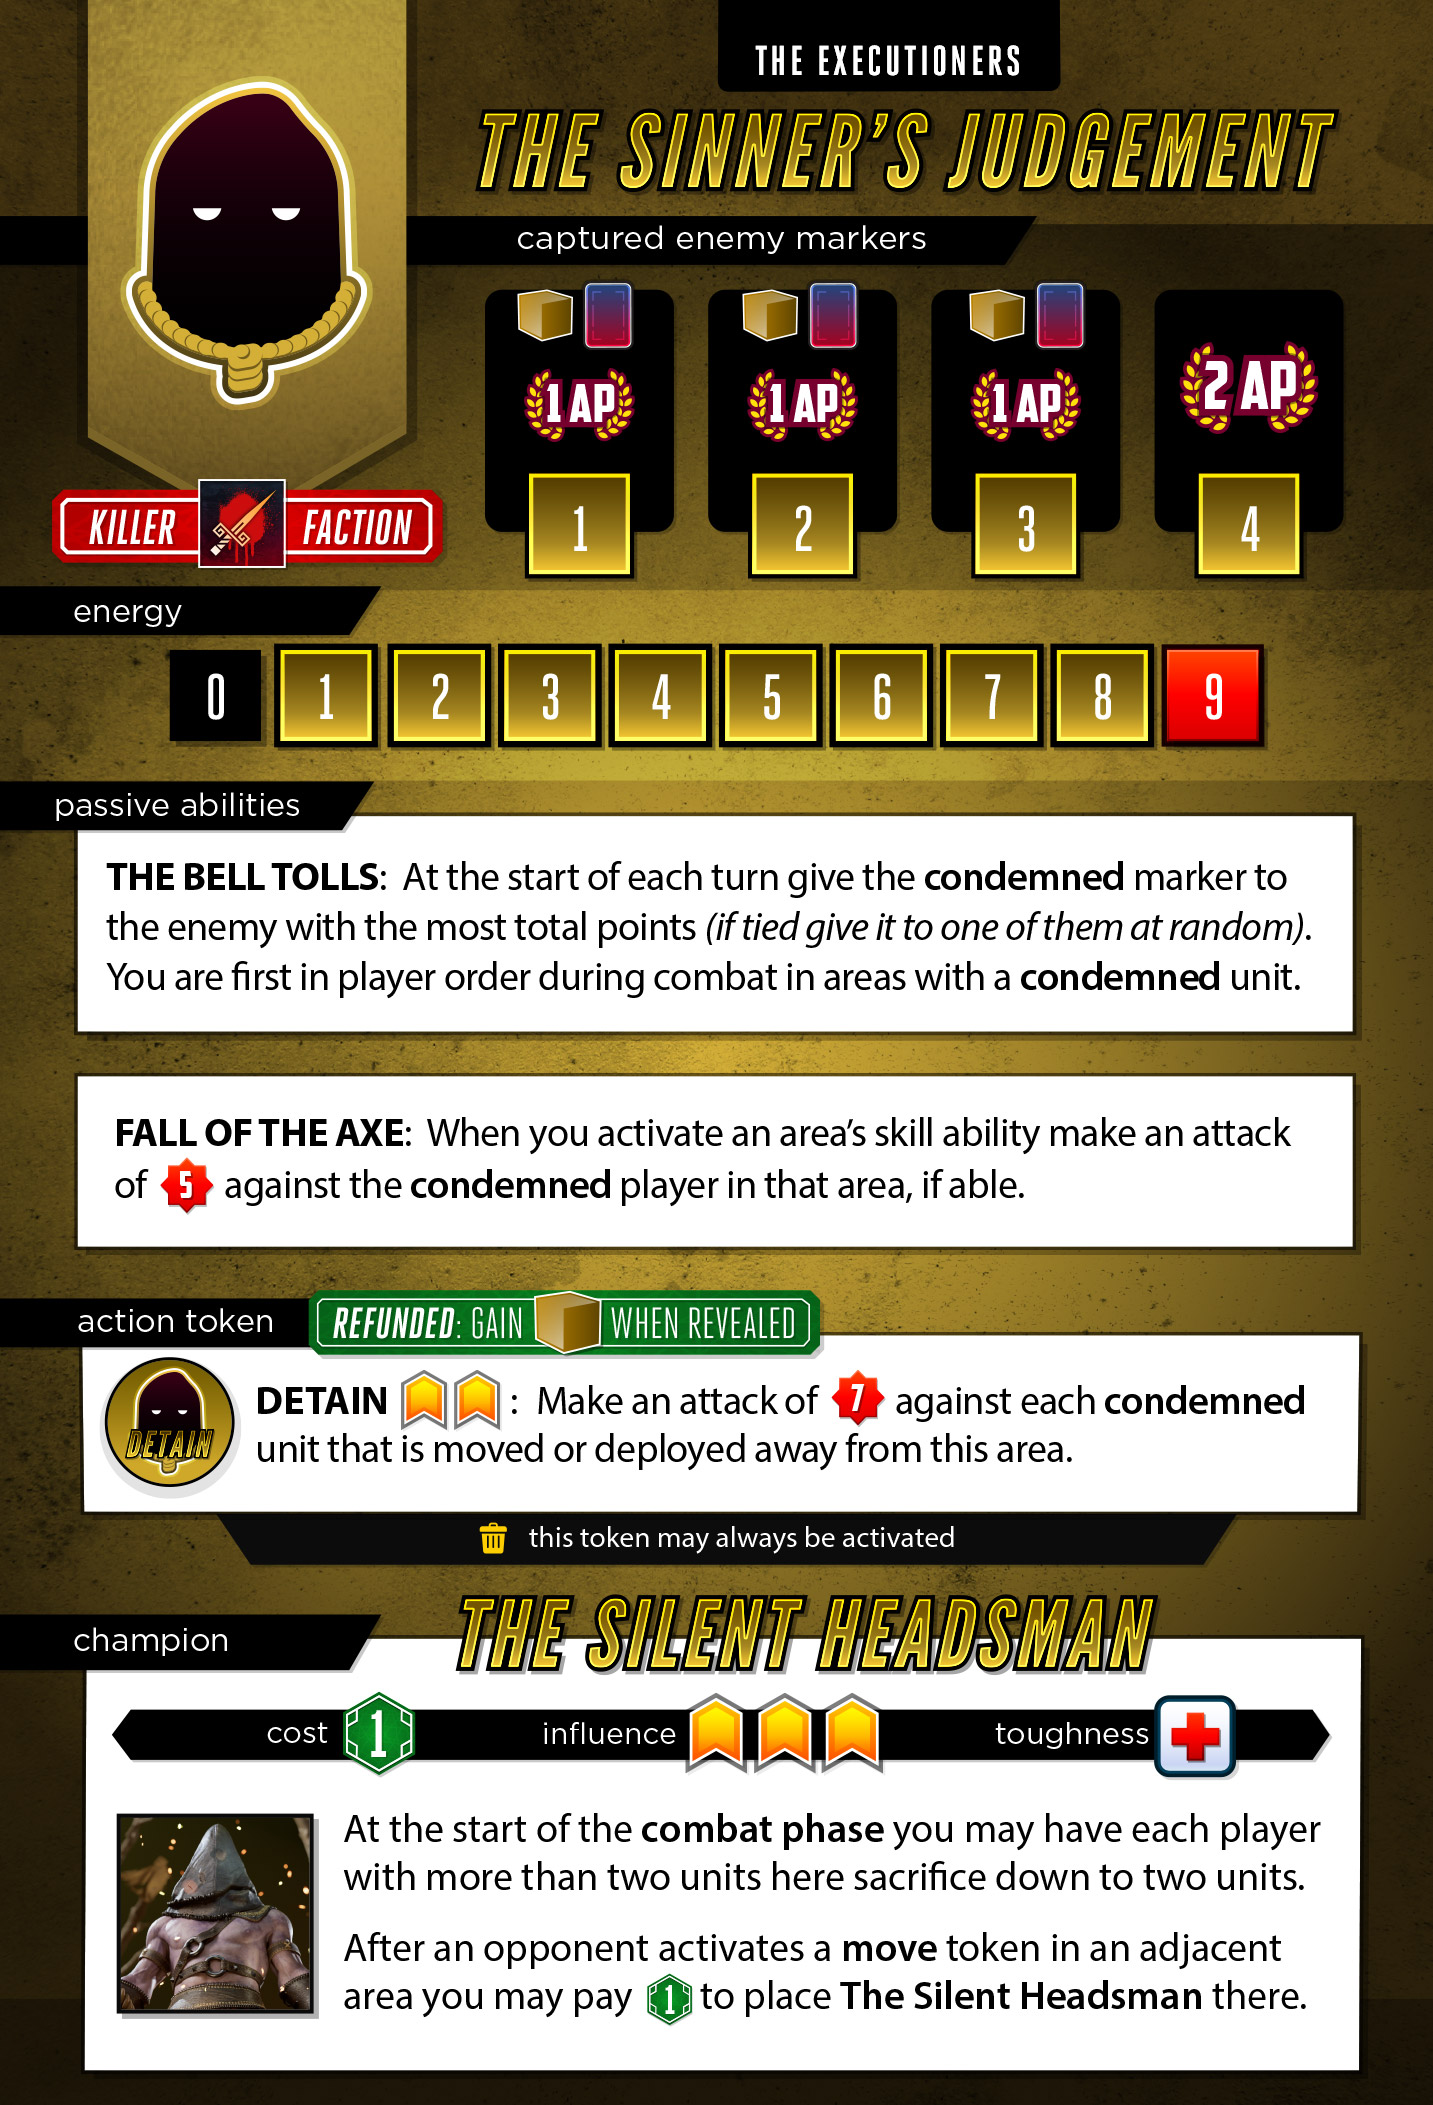
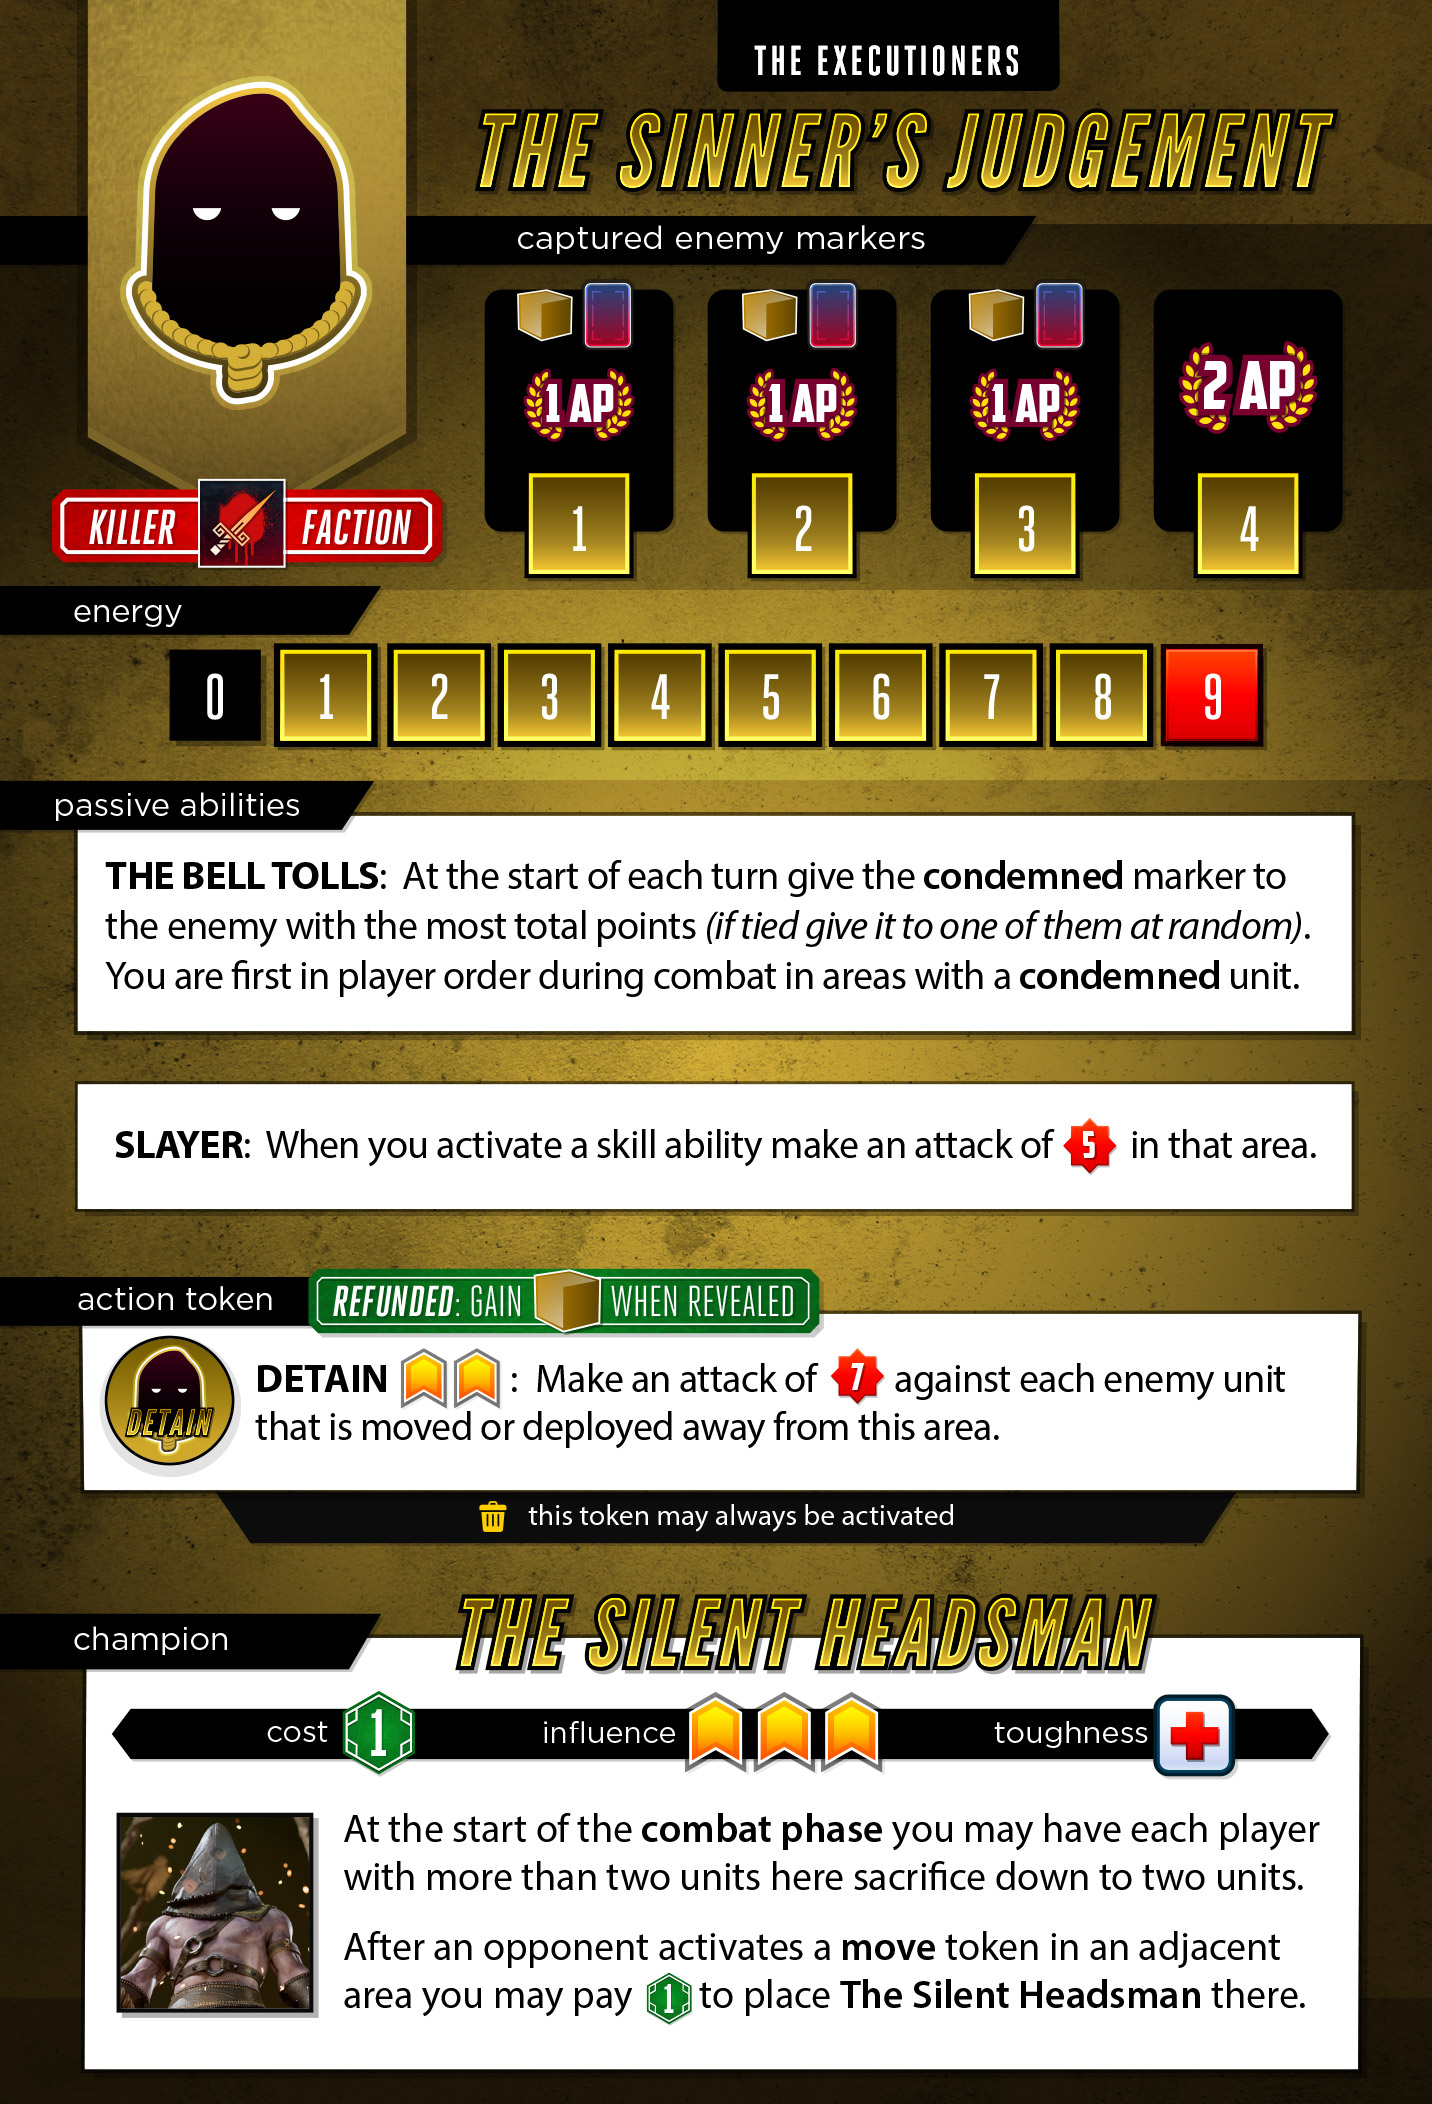
EXECUTIONERS: make abilites work against all enemies

diff --git a/server/classes/factions/Executioners.js b/server/classes/factions/Executioners.js
@@ -314,16 +314,15 @@ class Executioners extends Faction {
      * @returns {Promise<void>}
      */
     async afterSkillAttack( area ){
-        let condemned = this.game().factions[this.data.condemned];
-        let condemnedUnits = condemned.unitsInArea( area, { notHidden : 'true' } );
+        let enemyUnits = this.enemyUnitsInArea( area, { notHidden: true } );
 
-        if(!condemnedUnits.length){
-            this.message( `No condemned units in the ${area.name} to attack`, { class : 'warning' } );
+        if( !Object.keys( enemyUnits ).length ){
+            this.message( `No units in the ${area.name} to attack`, { class : 'warning' } );
             return;
         }
 
         // resolve attack with that unit
-        let output = await this.attack({ area: area, attacks: [this.data.skillAttack], targets: [this.data.condemned] });
+        let output = await this.attack({ area: area, attacks: [this.data.skillAttack] });
 
         if ( output ) {
             await this.game().timedPrompt('noncombat-attack', {output: [output]})
@@ -368,7 +367,7 @@ class Executioners extends Faction {
 
         for(let unitEvent of event.units){
             let unit = unitEvent.unit;
-            if( this.data.detainedArea && !unit.hidden && unit.faction === this.data.condemned && this.data.detainedArea === unitEvent.from ){
+            if( this.data.detainedArea && !unit.hidden && unit.faction !== this.name && this.data.detainedArea === unitEvent.from ){
                 let result = await this.detainAttack( unit );
                 if(result) kills.push( result );
             }
